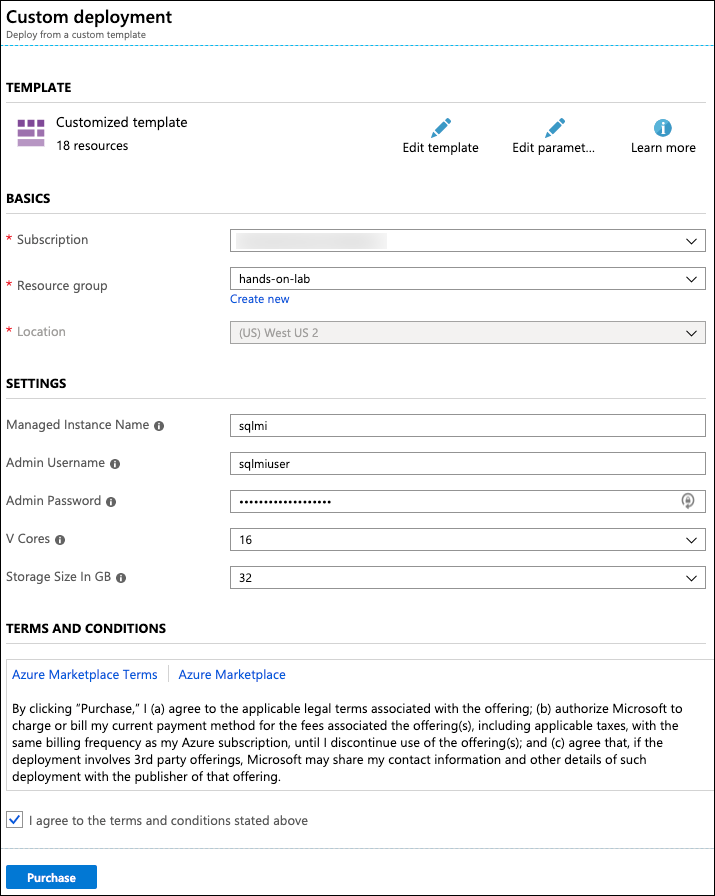
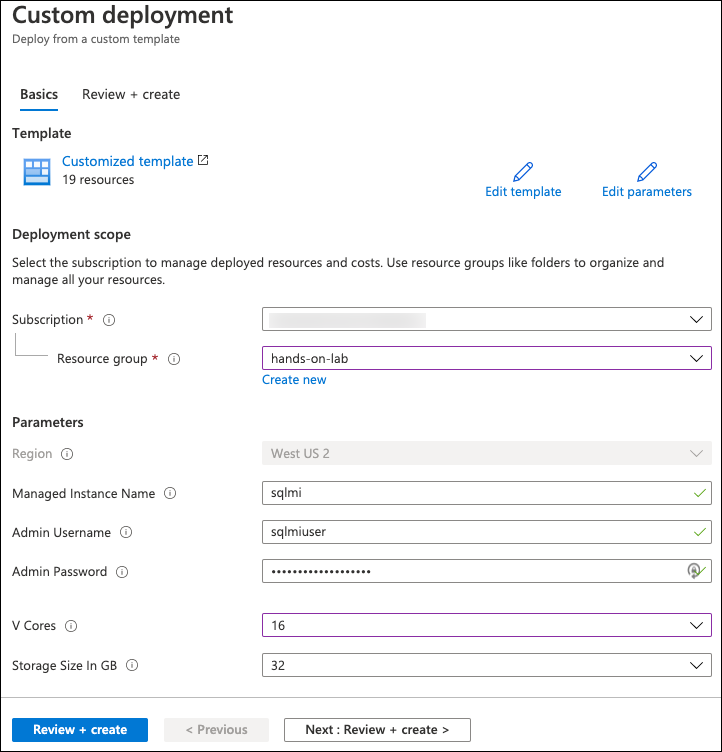
Before the HOL updates

diff --git a/Hands-on lab/Before the HOL - Migrating SQL databases to Azure.md b/Hands-on lab/Before the HOL - Migrating SQL databases to Azure.md
@@ -9,7 +9,7 @@ Before the hands-on lab setup guide
 </div>
 
 <div class="MCWHeader3">
-June 2020
+October 2020
 </div>
 
 Information in this document, including URL and other Internet Web site references, is subject to change without notice. Unless otherwise noted, the example companies, organizations, products, domain names, e-mail addresses, logos, people, places, and events depicted herein are fictitious, and no association with any real company, organization, product, domain name, e-mail address, logo, person, place or event is intended or should be inferred. Complying with all applicable copyright laws is the responsibility of the user. Without limiting the rights under copyright, no part of this document may be reproduced, stored in or introduced into a retrieval system, or transmitted in any form or by any means (electronic, mechanical, photocopying, recording, or otherwise), or for any purpose, without the express written permission of Microsoft Corporation.
@@ -50,7 +50,7 @@ Duration: 15 minutes
 
 In this exercise, you set up your environment for use in the rest of the hands-on lab. You should follow all steps provided _before_ attending the Hands-on lab.
 
-> **Important**: Many Azure resources require globally unique names. Throughout these steps, the word "SUFFIX" appears as part of resource names. You should replace this with your Microsoft alias, initials, or another value to ensure resources are uniquely named.
+> **Important**: Many Azure resources require globally unique names. Throughout these steps, the word "SUFFIX" appears as part of resource names. You should replace this with your Microsoft alias, initials, or other value to ensure uniquely named resources.
 
 ### Task 1: Create a resource group
 
@@ -76,7 +76,7 @@ In this exercise, you set up your environment for use in the rest of the hands-o
 
 ### Task 2: Register the Microsoft DataMigration resource provider
 
-In this task, you register the `Microsoft.DataMigration` resource provider with your Azure subscription. Registration of this resource provider is necessary to allow the creation of an Azure Database Migration Service within your subscription.
+In this task, you register the `Microsoft.DataMigration` resource provider with your Azure subscription. Registration of this resource provider is necessary to create an Azure Database Migration Service within your subscription.
 
 1. In the [Azure portal](https://portal.azure.com), select **Subscriptions** from the Azure services list.
 
@@ -90,7 +90,7 @@ In this task, you register the `Microsoft.DataMigration` resource provider with 
 
    ![Resource providers is highlighted in the left-hand menu of the Subscription blade. On the Resource providers blade, migration is entered into the filter box.](media/azure-portal-subscriptions-resource-providers-register-microsoft-datamigration.png "Resource provider registration")
 
-4. If the status of the `Microsoft.DataMigration` provider is `NotRegistered`, select **Register** in the toolbar.
+4. If the `Microsoft.DataMigration` provider's status is `NotRegistered`, select **Register** in the toolbar.
 
    ![The Register button is highlighted in the Resource Providers toolbar.](media/azure-subscriptions-resource-providers-toolbar.png "Resource providers toolbar")
 
@@ -103,7 +103,7 @@ In this task, you register the `Microsoft.DataMigration` resource provider with 
 In this task, you run an Azure Resource Manager (ARM) template to create the resources required for this hands-on lab. The components are deployed inside a new virtual network (VNet) to facilitate communication between the VMs and SQL MI. The ARM template also adds inbound and outbound security rules to the network security groups associated with SQL MI and the VMs, including opening port 3389 to allow RDP connections to the JumpBox. In addition to creating resources, the ARM template also executes PowerShell scripts on each of the VMs to install software and configure the servers. The resources created by the ARM template include:
 
 - A virtual network with three subnets, ManagedInstance, Management, and a Gateway subnet.
-- A virtual network gateway, associated with the Gateway subnet.
+- A virtual network gateway associated with the Gateway subnet.
 - A route table.
 - Azure SQL Managed Instance (SQL MI), added to the ManagedInstance subnet.
 - A JumpBox with Visual Studio 2019 Community Edition and SQL Server Management Studio (SSMS installed, added to the Management subnet).
@@ -144,21 +144,24 @@ In this task, you run an Azure Resource Manager (ARM) template to create the res
 
    - **Subscription**: Select the subscription you are using for this hands-on lab.
    - **Resource group**: Select the hands-on-lab-SUFFIX resource group from the dropdown list.
-   - **Location**: Select the location you used for the hands-on-lab-SUFFIX resource group.
+   - **Region**: Select the region you used for the hands-on-lab-SUFFIX resource group.
    - **Managed Instance Name**: Accept the default value, **sqlmi**. The actual name must be globally unique, so a unique string is generated from your Resource Group and appended to the name during provisioning.
    - **Admin Username**: Accept the default value, **sqlmiuser**.
    - **Admin Password**: Accept the default value, **Password.1234567890**.
    - **V Cores**: Accept the default value, **16**.
    - **Storage Size in GB**: Accept the default value, **32**.
-   - Check the box to agree to the Azure Marketplace terms and conditions.
 
    ![The Custom deployment blade is displayed, and the information above is entered on the Custom deployment blade.](media/azure-custom-deployment.png "Custom deployment blade")
 
-7. Select **Purchase** to start provisioning the JumpBox VM and SQL Managed Instance.
+7. Select **Review + create** to review the custom deployment.
 
-   > **Note**: The deployment of the custom ARM template can take over 6 hours due to the inclusion of SQL MI. However, the deployment of most of the resources completes within a few minutes. The JumpBox and SQL Server 2008 R2 VMs should finish in about 15 minutes.
+8. On the Review + create blade, ensure the _Validation passed_ message is displayed and then select **Create** to begin the custom deployment.
 
-8. You can monitor the progress of the deployment by navigating to the hands-on-lab-SUFFIX resource group in the Azure portal, and then selecting **Deployments** from the left-hand menu. The deployment is named **Microsoft.Template**. Select that to view the progress of each item in the template.
+   ![On the Review + create blade for the custom deployment, the Validation passed message is highlighted, and the Create button is highlighted.](media/azure-custom-deployment-review-create.png "Review + create custom deployment")
+
+   > **Note**: The deployment of the custom ARM template can take over 4 hours due to the inclusion of SQL MI. However, the deployment of most of the resources completes within a few minutes. The JumpBox and SQL Server 2008 R2 VMs should finish in about 15 minutes.
+
+9. You can monitor the deployment's progress by navigating to the hands-on-lab-SUFFIX resource group in the Azure portal and then selecting **Deployments** from the left-hand menu. The deployment is named **Microsoft.Template**. Select that to view the progress of each item in the template.
 
    ![The Deployments menu item is selected in the left-hand menu of the hands-on-lab-SUFFIX resource group and the Microsoft.Template deployment is highlighted.](media/resource-group-deployments.png "Resource group deployments")
 
